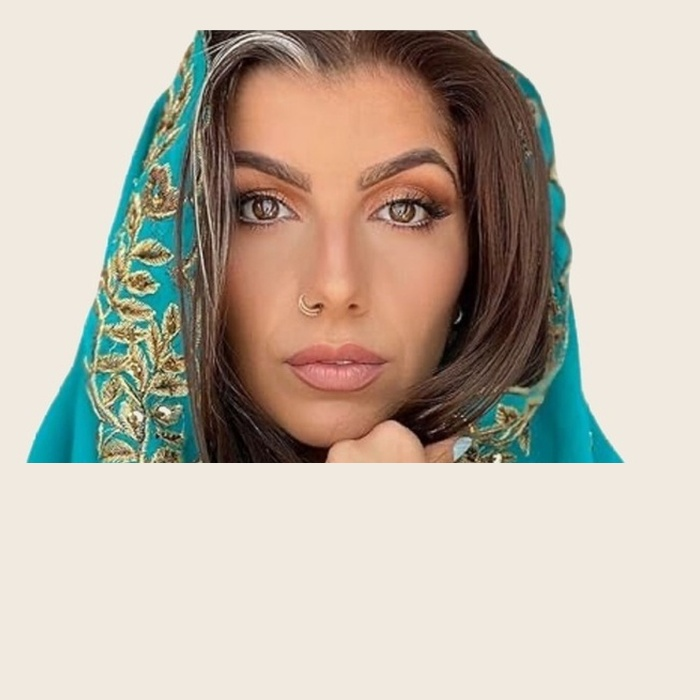
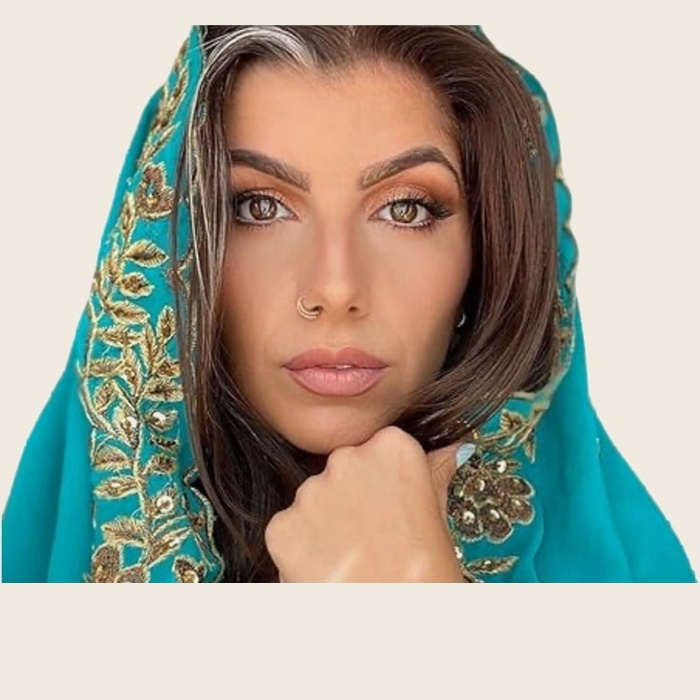
Bruna: reprocess from original tinted, 80% subject crop fills frame properly; daypass body 26px

diff --git a/index.html b/index.html
@@ -886,15 +886,15 @@ nav a.nav-pill.gold:hover {
 .daypass-title em { font-style: italic; color: var(--sand); }
 
 .daypass-body {
-  font-size: 20px;
-  line-height: 1.8;
+  font-size: 26px;
+  line-height: 1.7;
   color: rgba(245,240,232,0.75);
-  max-width: 480px;
-  margin-bottom: 32px;
+  max-width: 600px;
+  margin-bottom: 36px;
 }
 
 .daypass-hours {
-  font-size: 14px;
+  font-size: 16px;
   letter-spacing: 0.2em;
   text-transform: uppercase;
   color: var(--gold);